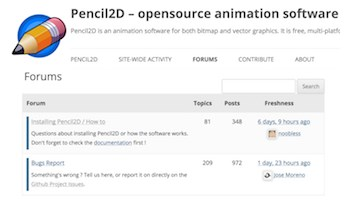
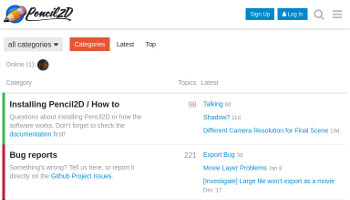
Update link to forum

diff --git a/community/index.md b/community/index.md
@@ -7,8 +7,8 @@ comments: true
 
 <div class="tiles" style="text-align:center">
   <div class="community-tile">
-    <a href="https://www.pencil2d.org/?post_type=forum" target="_blank"><img src="/images/community-forum.jpg"></a>
-    <a href="https://www.pencil2d.org/?post_type=forum" target="_blank"><h2 class="post-title">Forum</h2></a>
+    <a href="https://discuss.pencil2d.org/" target="_blank"><img src="/images/community-forum.jpg"></a>
+    <a href="https://discuss.pencil2d.org/" target="_blank"><h2 class="post-title">Forum</h2></a>
     Community forum for all Pencil2D animators
   </div>
 
